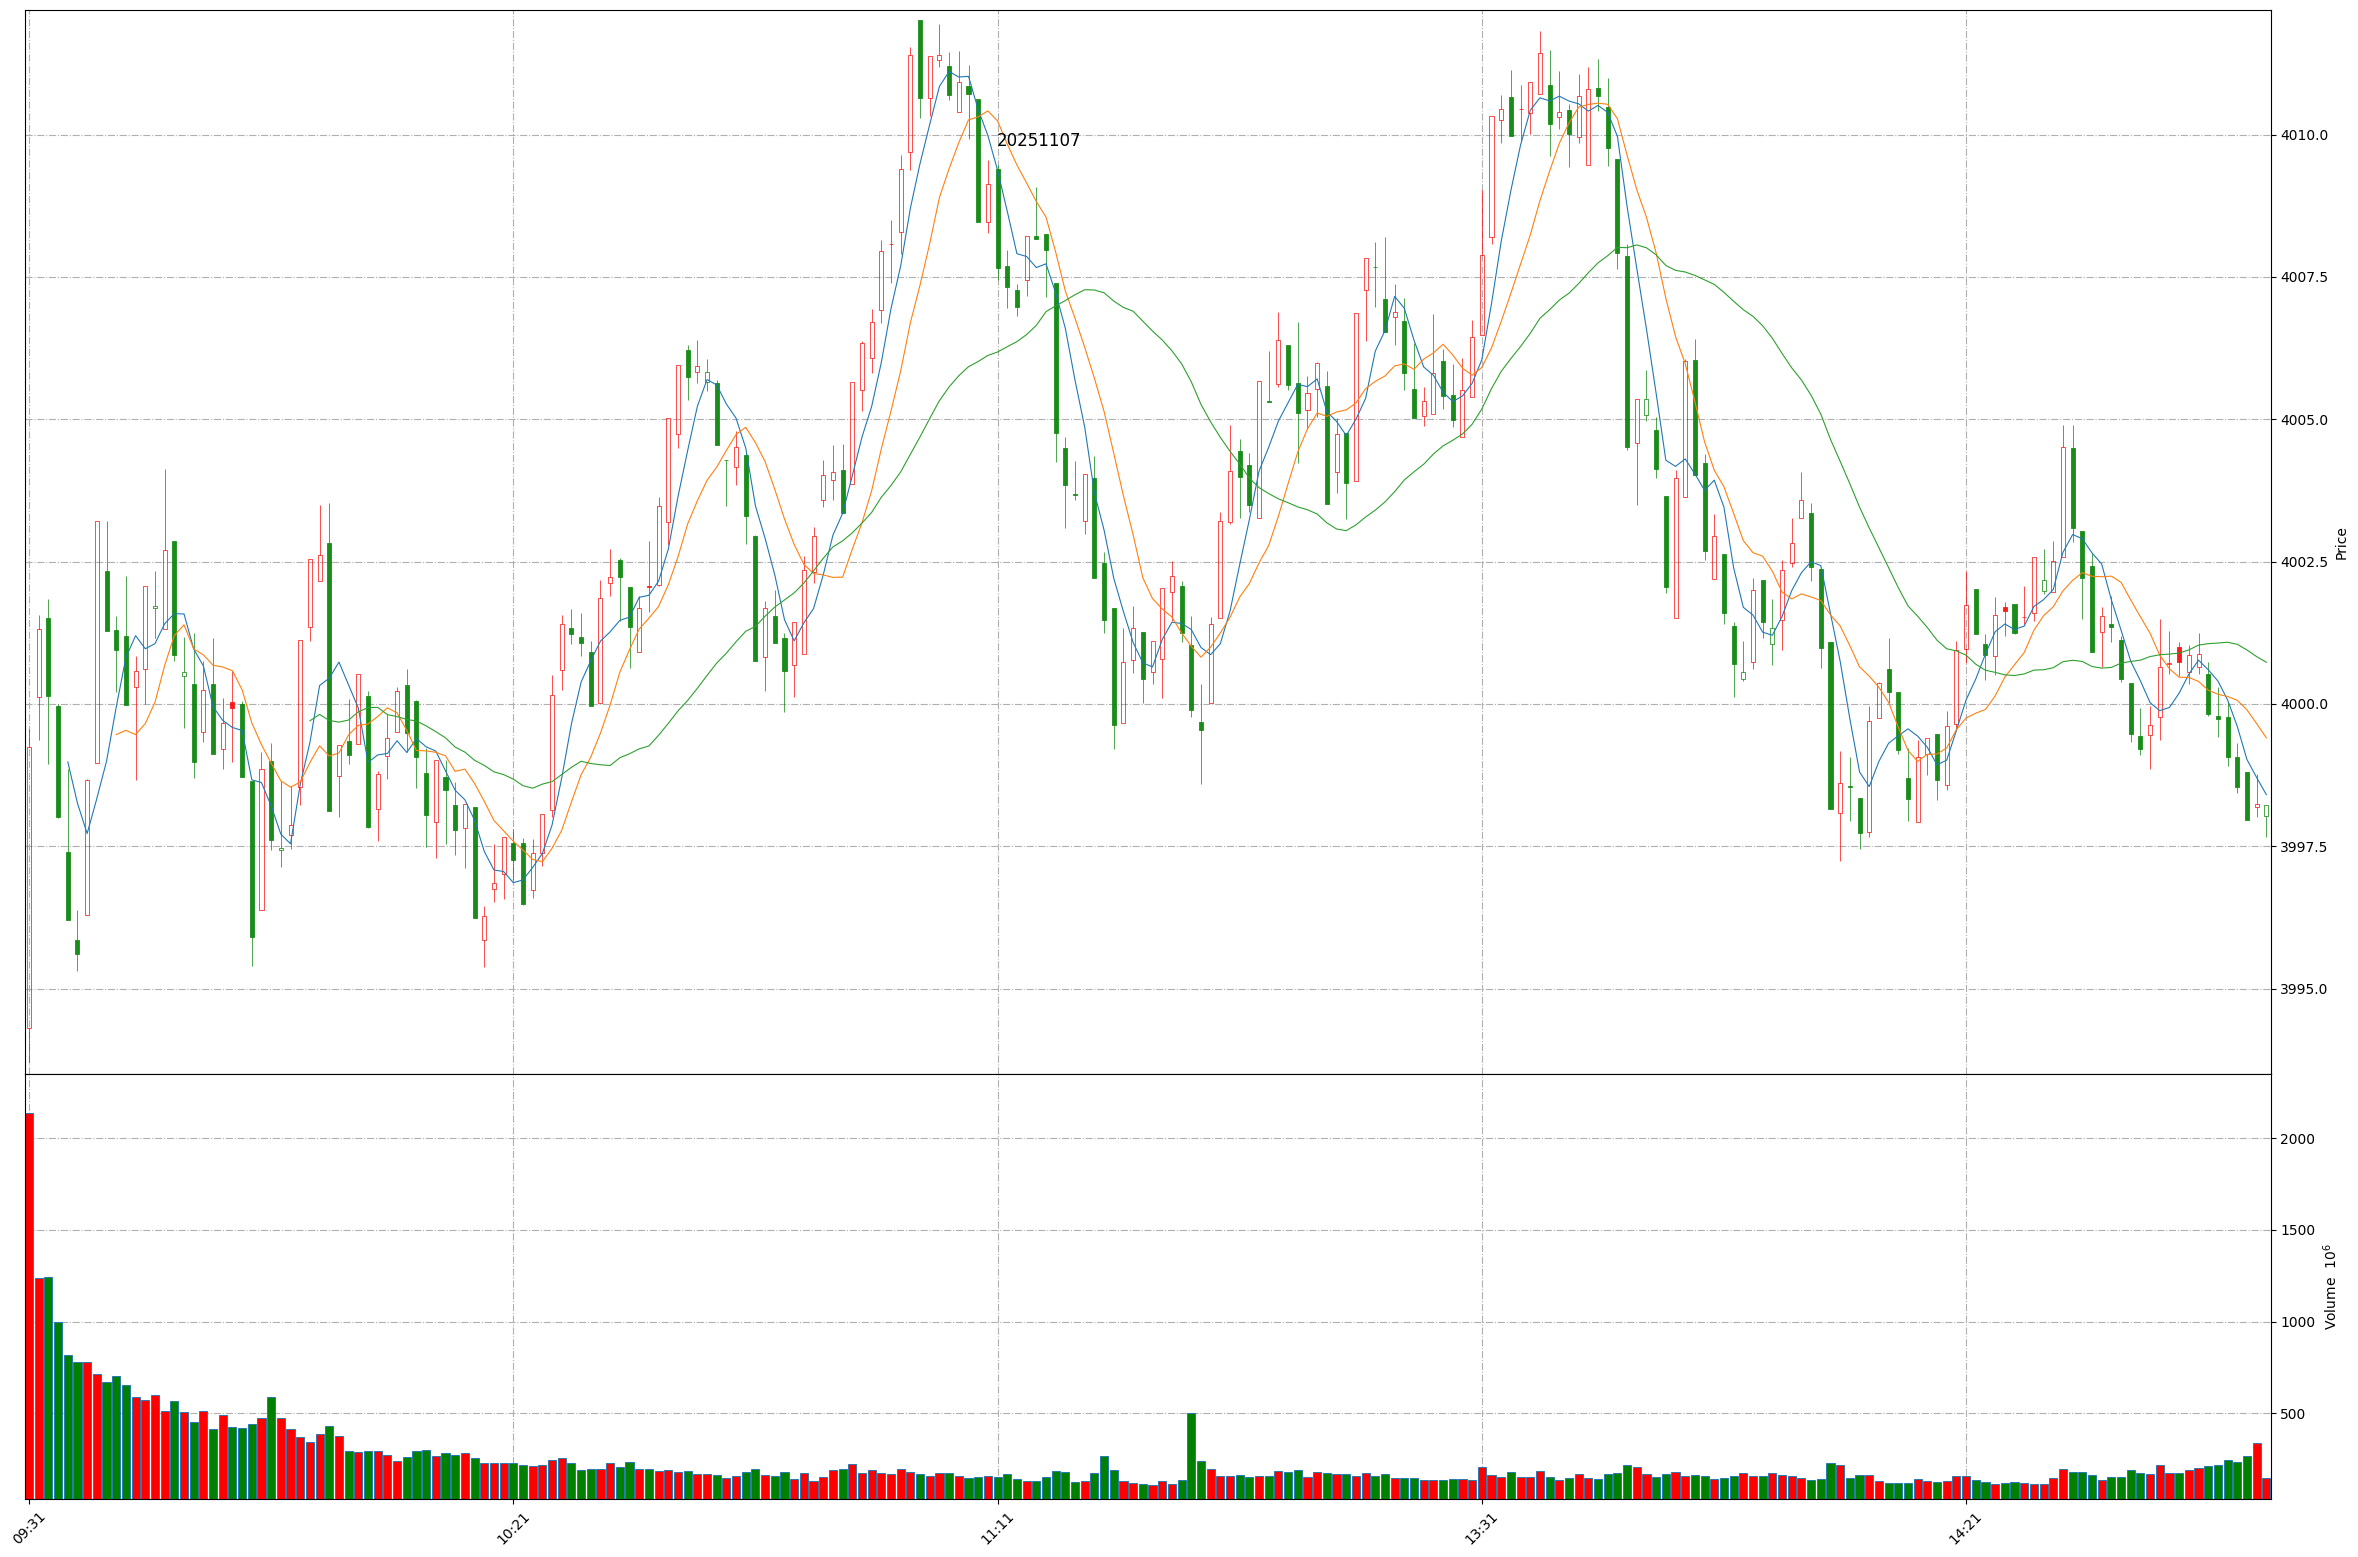
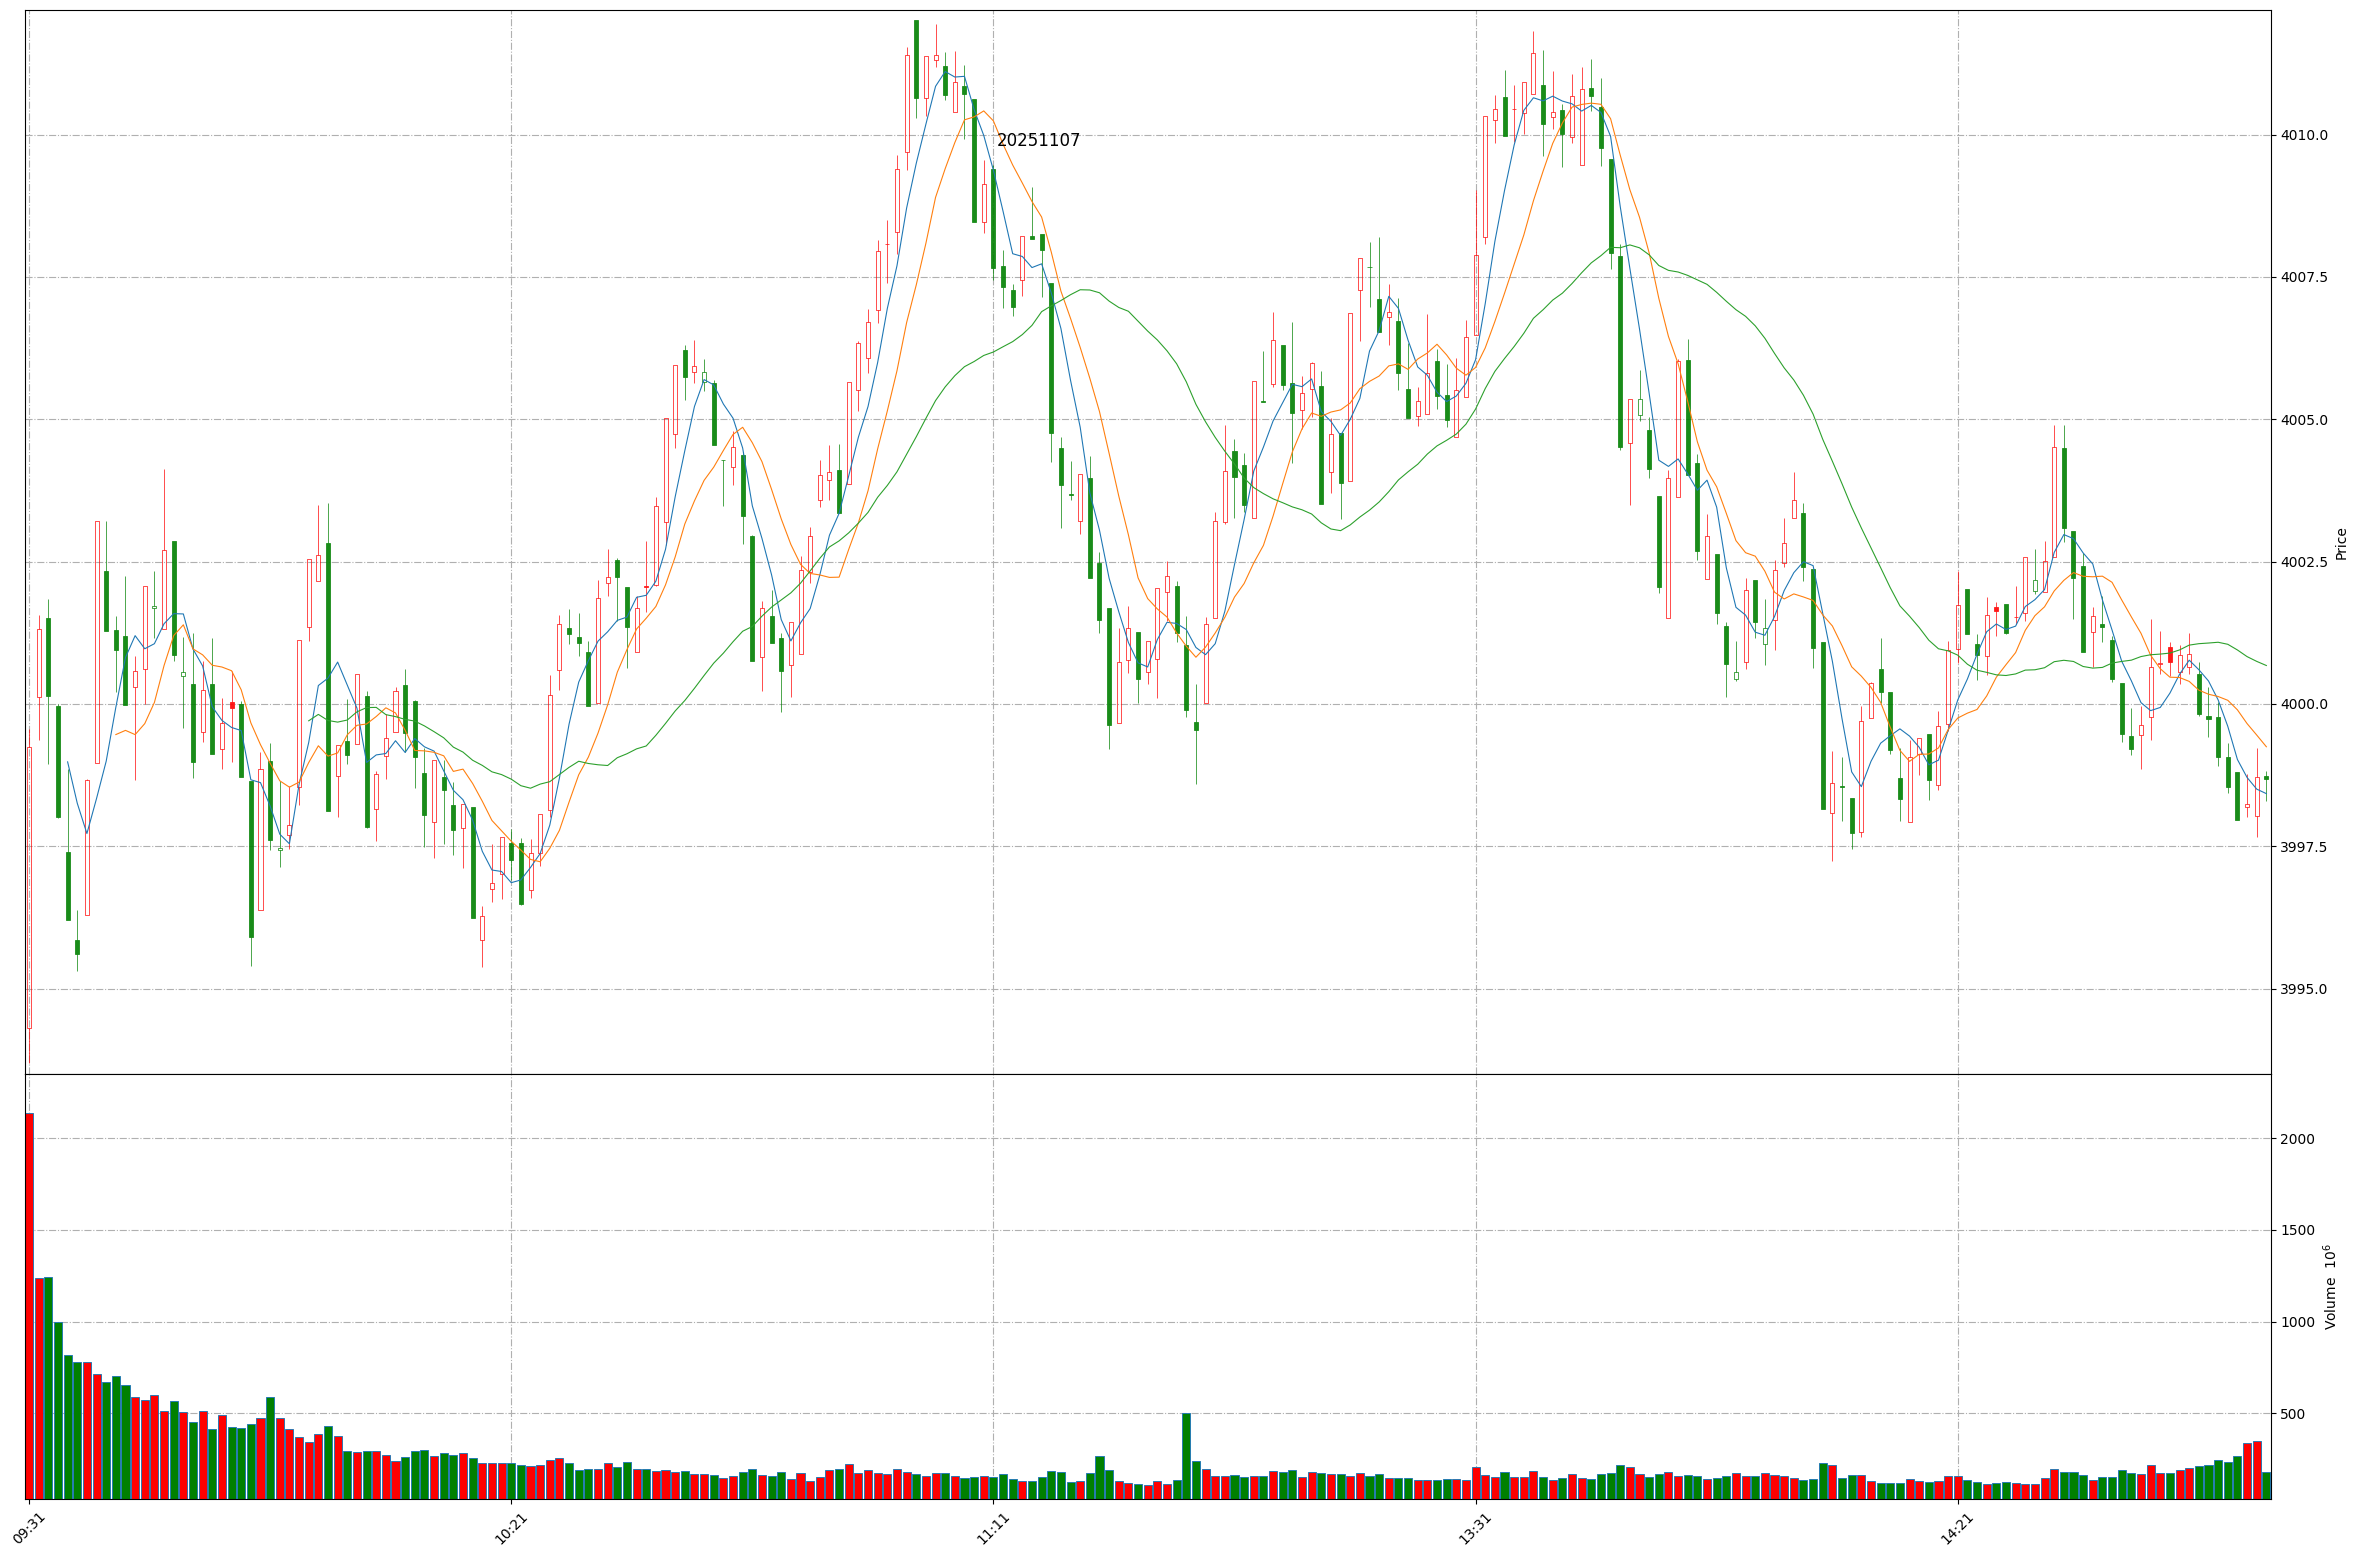
Github action update at 2025-11-07 14:52:52.

diff --git a/README.md b/README.md
@@ -1,11 +1,11 @@
 
 # Daily-A-share-market-quotes 每日 A 股指数（5min 更新）- 20251107
 
-### 上证指数 20251107 14:51
+### 上证指数 20251107 14:52
 ![](./fig/2025/11/20251107-sh000001.png)
 
-### 深证成指 20251107 14:51
+### 深证成指 20251107 14:52
 ![](./fig/2025/11/20251107-sz399001.png)
 
-### 北证50 20251107 14:51
+### 北证50 20251107 14:52
 ![](./fig/2025/11/20251107-bj899050.png)
